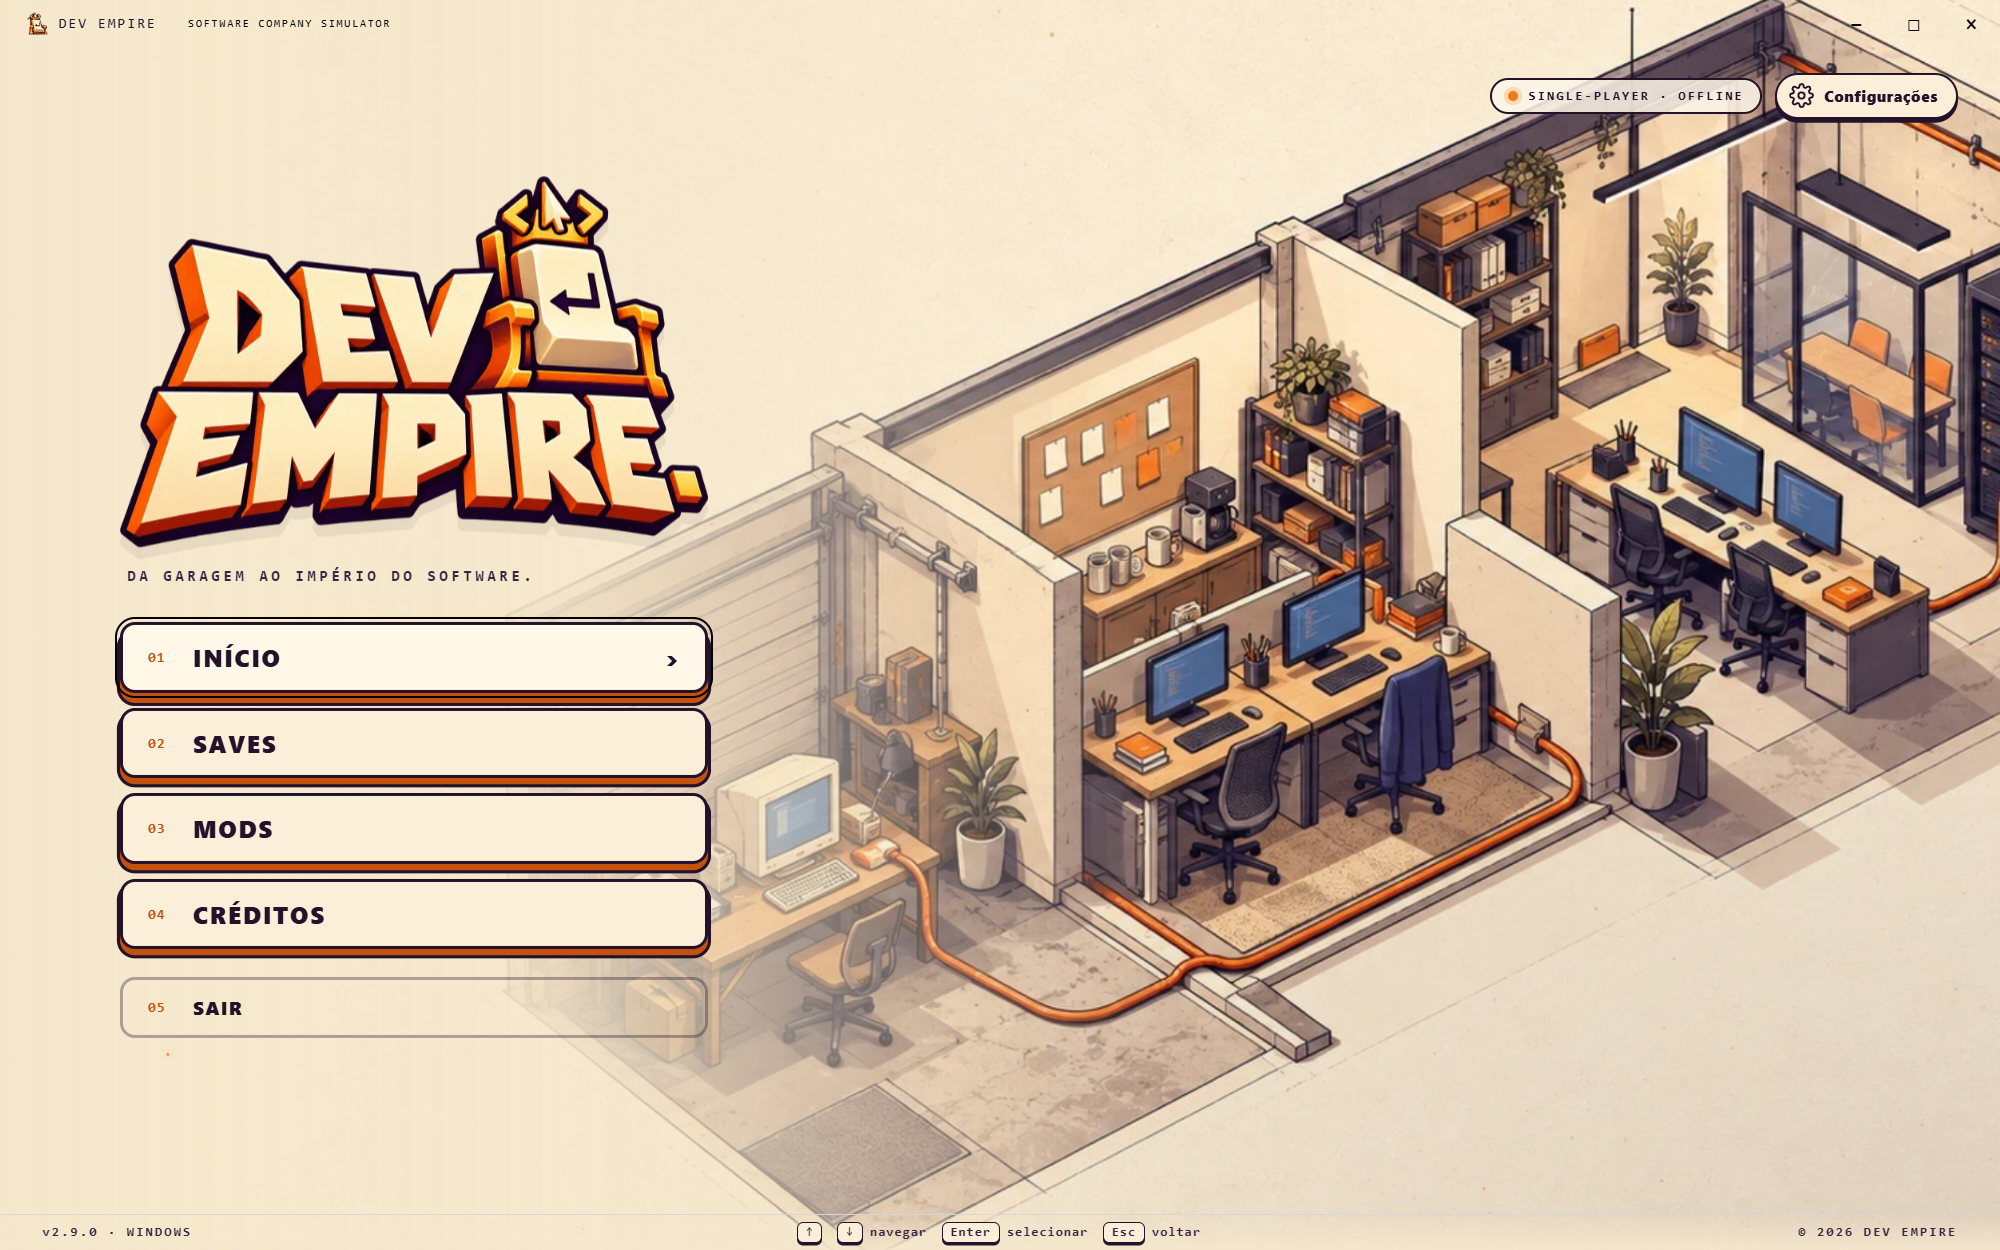
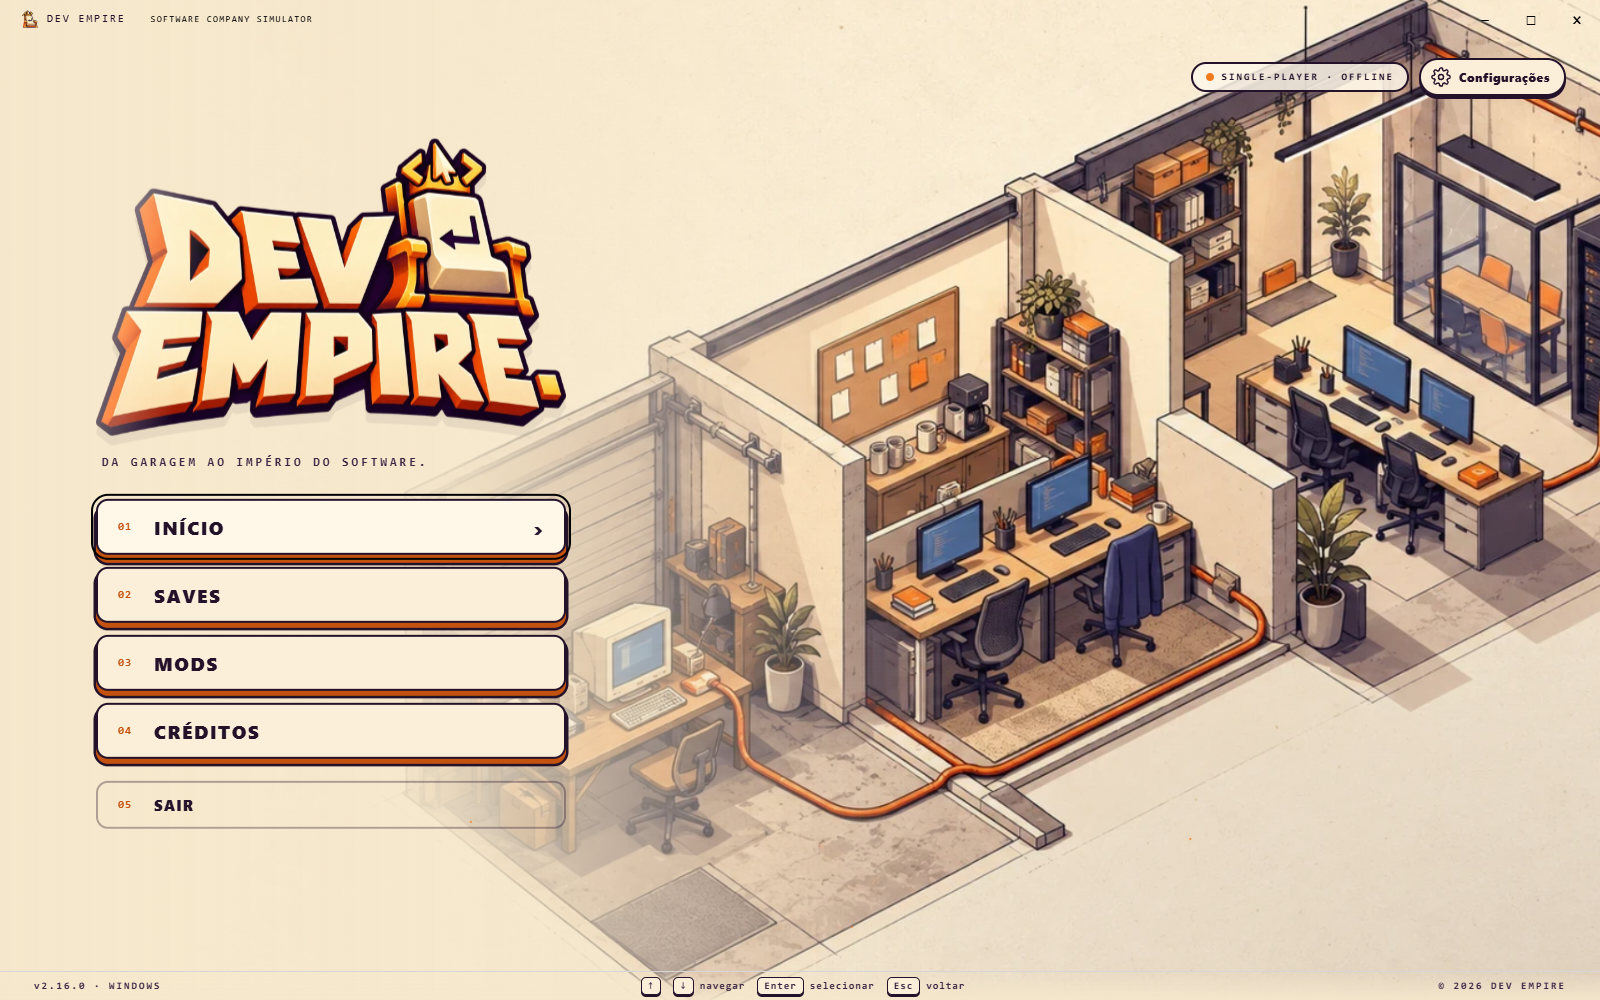
Atualiza BETA 2.16.0 com nove capturas recentes e guia de download

diff --git a/README.md b/README.md
@@ -7,7 +7,7 @@
 <p align="center"><strong>Uma garagem, um computador e uma ideia.<br>O próximo império do software começa com você.</strong></p>
 
 <p align="center">
-  <a href="https://github.com/ithalov/dev-empire/releases/tag/v2.9.0"><img src="https://img.shields.io/badge/vers%C3%A3o-2.9.0-blue?style=flat-square" alt="Versão 2.9.0"></a>
+  <a href="https://github.com/ithalov/dev-empire/releases/tag/v2.16.0"><img src="https://img.shields.io/badge/vers%C3%A3o-2.16.0-blue?style=flat-square" alt="Versão 2.16.0"></a>
   <img src="https://img.shields.io/badge/status-BETA-orange?style=flat-square" alt="Em BETA">
   <img src="https://img.shields.io/badge/plataforma-Windows_x64-0078D4?style=flat-square" alt="Windows x64">
   <img src="https://img.shields.io/badge/idioma-Portugu%C3%AAs-2E7D32?style=flat-square" alt="Português">
@@ -15,7 +15,7 @@
 </p>
 
 <p align="center">
-  <a href="https://github.com/ithalov/dev-empire/releases/download/v2.9.0/Dev-Empire-2.9.0-Windows.exe"><img src="https://img.shields.io/badge/BAIXAR_BETA_2.9.0-WINDOWS_x64-F28C28?style=for-the-badge&logo=github&logoColor=white" alt="Baixar Dev Empire BETA 2.9.0 para Windows"></a>
+  <a href="https://github.com/ithalov/dev-empire/releases/download/v2.16.0/Dev-Empire-2.16.0-Windows.exe"><img src="https://img.shields.io/badge/BAIXAR_BETA_2.16.0-WINDOWS_x64-F28C28?style=for-the-badge&logo=github&logoColor=white" alt="Baixar Dev Empire BETA 2.16.0 para Windows"></a>
 </p>
 
 <p align="center">
@@ -41,13 +41,22 @@ Negocie contratos, escolha tecnologias e acompanhe cada projeto até a entrega. 
 
 Jogue no seu ritmo: pause para planejar ou acelere o tempo para acompanhar os resultados das suas decisões.
 
+## Novidades da BETA 2.16.0
+
+- **Sua equipe ganha identidade:** retratos de funcionários e diretores, carreira, promoções e benefícios.
+- **Produtos com personalidade:** novos ícones por categoria, modelos de monetização e planejamento de versões.
+- **Plataformas:** transforme um sistema operacional ou loja em um ecossistema com aplicativos de outros desenvolvedores.
+- **Aquisições:** converse com CEOs, faça auditorias e decida como expandir seu grupo de empresas.
+- **Mods locais:** importe conteúdo da comunidade, confira as mudanças antes de aplicar e gerencie seus pacotes.
+- **Correções e melhorias visuais:** carregamento de saves antigos, botão de treinamento e novas artes originais.
+
 ## Imagens do jogo
 
-Capturas reais da **BETA 2.9.0 para Windows**. Clique nas imagens para ampliar.
+Capturas reais da **BETA 2.16.0 para Windows**, usando uma empresa de demonstração. Clique nas imagens para ampliar.
 
 ### Sua empresa em um só lugar
 
-[![Visão geral da empresa, com caixa, equipe e projetos](media/screenshots/02-visao-geral.png)](media/screenshots/02-visao-geral.png)
+[![Visão geral da empresa, com caixa, equipe, projetos e escritório](media/screenshots/02-visao-geral.png)](media/screenshots/02-visao-geral.png)
 
 <table>
   <tr>
@@ -55,23 +64,39 @@ Capturas reais da **BETA 2.9.0 para Windows**. Clique nas imagens para ampliar.
     <td width="50%" align="center"><strong>Equipe e contratação</strong></td>
   </tr>
   <tr>
-    <td><a href="media/screenshots/03-projeto.png"><img src="media/screenshots/03-projeto.png" alt="Projeto em desenvolvimento, com progresso, testes e modos de trabalho" width="100%"></a></td>
-    <td><a href="media/screenshots/04-equipe.png"><img src="media/screenshots/04-equipe.png" alt="Tela de equipe, profissionais e candidatos para contratação" width="100%"></a></td>
+    <td><a href="media/screenshots/03-projeto.png"><img src="media/screenshots/03-projeto.png" alt="Desenvolvimento de projetos em Dev Empire BETA 2.16.0" width="100%"></a></td>
+    <td><a href="media/screenshots/04-equipe.png"><img src="media/screenshots/04-equipe.png" alt="Equipe e contratação em Dev Empire BETA 2.16.0" width="100%"></a></td>
   </tr>
   <tr>
-    <td align="center"><strong>Pesquisa e tecnologias</strong></td>
-    <td align="center"><strong>Menu principal</strong></td>
+    <td width="50%" align="center"><strong>Produtos próprios</strong></td>
+    <td width="50%" align="center"><strong>Diretoria da empresa</strong></td>
   </tr>
   <tr>
-    <td><a href="media/screenshots/05-tecnologias.png"><img src="media/screenshots/05-tecnologias.png" alt="Linguagens e tecnologias disponíveis para pesquisa" width="100%"></a></td>
-    <td><a href="media/screenshots/01-menu.png"><img src="media/screenshots/01-menu.png" alt="Menu principal de Dev Empire" width="100%"></a></td>
+    <td><a href="media/screenshots/06-produtos.png"><img src="media/screenshots/06-produtos.png" alt="Produtos próprios em Dev Empire BETA 2.16.0" width="100%"></a></td>
+    <td><a href="media/screenshots/07-diretoria.png"><img src="media/screenshots/07-diretoria.png" alt="Diretoria da empresa em Dev Empire BETA 2.16.0" width="100%"></a></td>
+  </tr>
+  <tr>
+    <td width="50%" align="center"><strong>Plataformas e aplicativos</strong></td>
+    <td width="50%" align="center"><strong>Negociação de aquisições</strong></td>
+  </tr>
+  <tr>
+    <td><a href="media/screenshots/08-plataformas.png"><img src="media/screenshots/08-plataformas.png" alt="Plataformas e aplicativos em Dev Empire BETA 2.16.0" width="100%"></a></td>
+    <td><a href="media/screenshots/09-aquisicoes.png"><img src="media/screenshots/09-aquisicoes.png" alt="Negociação de aquisições em Dev Empire BETA 2.16.0" width="100%"></a></td>
+  </tr>
+  <tr>
+    <td width="50%" align="center"><strong>Pesquisa e tecnologias</strong></td>
+    <td width="50%" align="center"><strong>Menu principal</strong></td>
+  </tr>
+  <tr>
+    <td><a href="media/screenshots/05-tecnologias.png"><img src="media/screenshots/05-tecnologias.png" alt="Pesquisa e tecnologias em Dev Empire BETA 2.16.0" width="100%"></a></td>
+    <td><a href="media/screenshots/01-menu.png"><img src="media/screenshots/01-menu.png" alt="Menu principal em Dev Empire BETA 2.16.0" width="100%"></a></td>
   </tr>
 </table>
 
 ## Como jogar
 
-1. **[Baixe o jogo para Windows](https://github.com/ithalov/dev-empire/releases/download/v2.9.0/Dev-Empire-2.9.0-Windows.exe).**
-2. Abra **Dev-Empire-2.9.0-Windows.exe**. A versão é portátil e não precisa de instalação.
+1. **[Baixe o jogo para Windows](https://github.com/ithalov/dev-empire/releases/download/v2.16.0/Dev-Empire-2.16.0-Windows.exe).**
+2. Abra **Dev-Empire-2.16.0-Windows.exe**. A versão é portátil e não precisa de instalação.
 3. Crie sua empresa e siga o guia do fundador para começar.
 
 | Informação | Versão atual |
@@ -79,7 +104,7 @@ Capturas reais da **BETA 2.9.0 para Windows**. Clique nas imagens para ampliar.
 | Plataforma | Windows x64 |
 | Idioma | Português |
 | Experiência | Single-player e offline |
-| Download | Aproximadamente 101 MB |
+| Download | Aproximadamente 126 MB |
 | Progresso | Salvamento automático local e exportação/importação de saves |
 | Fase | **BETA — em desenvolvimento** |
 
@@ -112,4 +137,4 @@ Ao relatar um problema, informe a versão do jogo, o que aconteceu e os passos p
 
 ---
 
-<p align="center"><strong>Sua próxima grande ideia começa com o primeiro projeto.</strong><br><a href="https://github.com/ithalov/dev-empire/releases/download/v2.9.0/Dev-Empire-2.9.0-Windows.exe">Baixe a BETA e funde sua empresa.</a></p>
+<p align="center"><strong>Sua próxima grande ideia começa com o primeiro projeto.</strong><br><a href="https://github.com/ithalov/dev-empire/releases/download/v2.16.0/Dev-Empire-2.16.0-Windows.exe">Baixe a BETA e funde sua empresa.</a></p>
